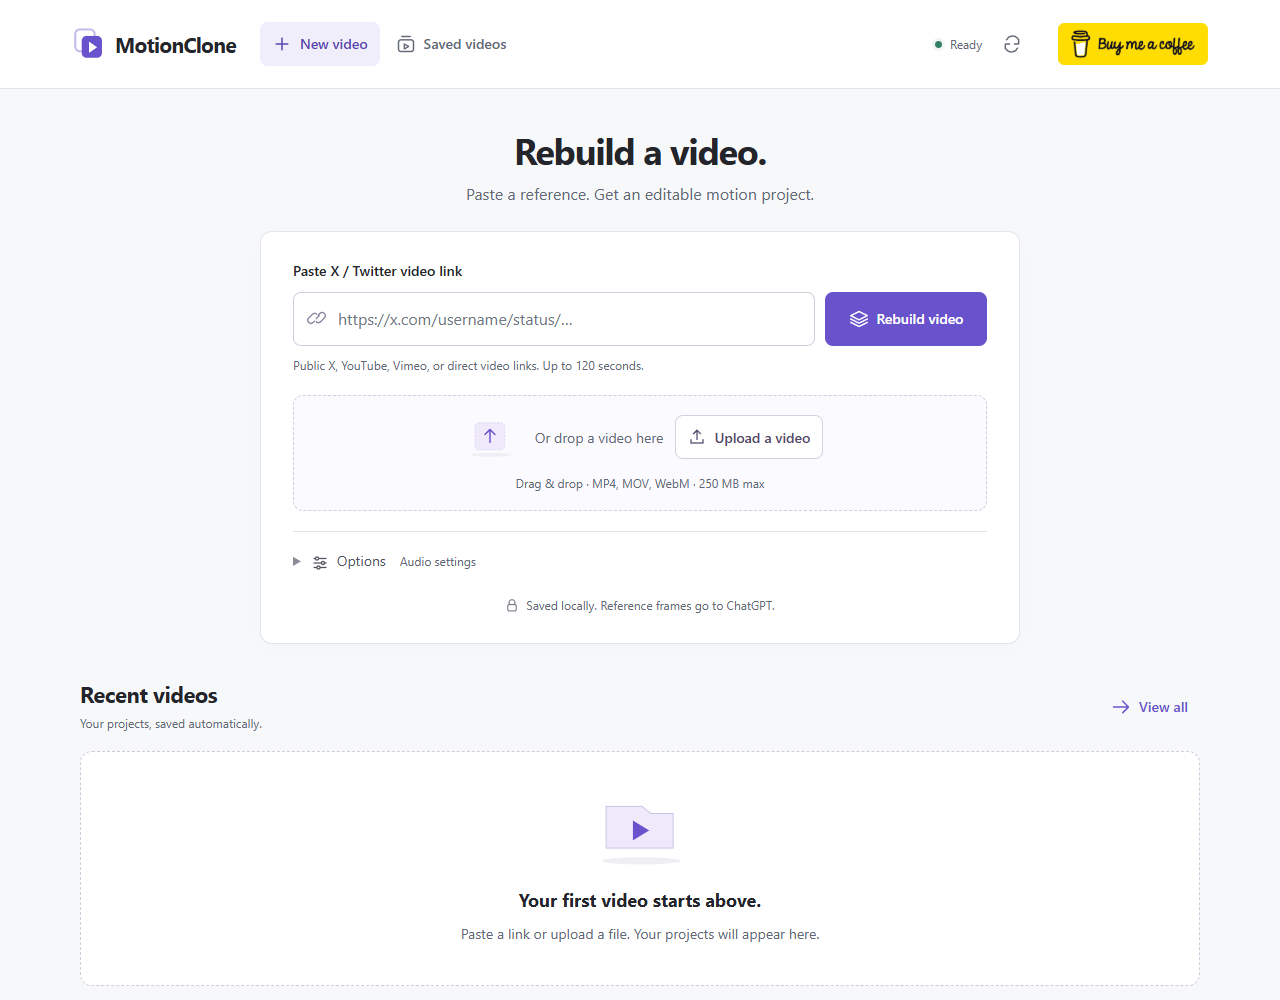
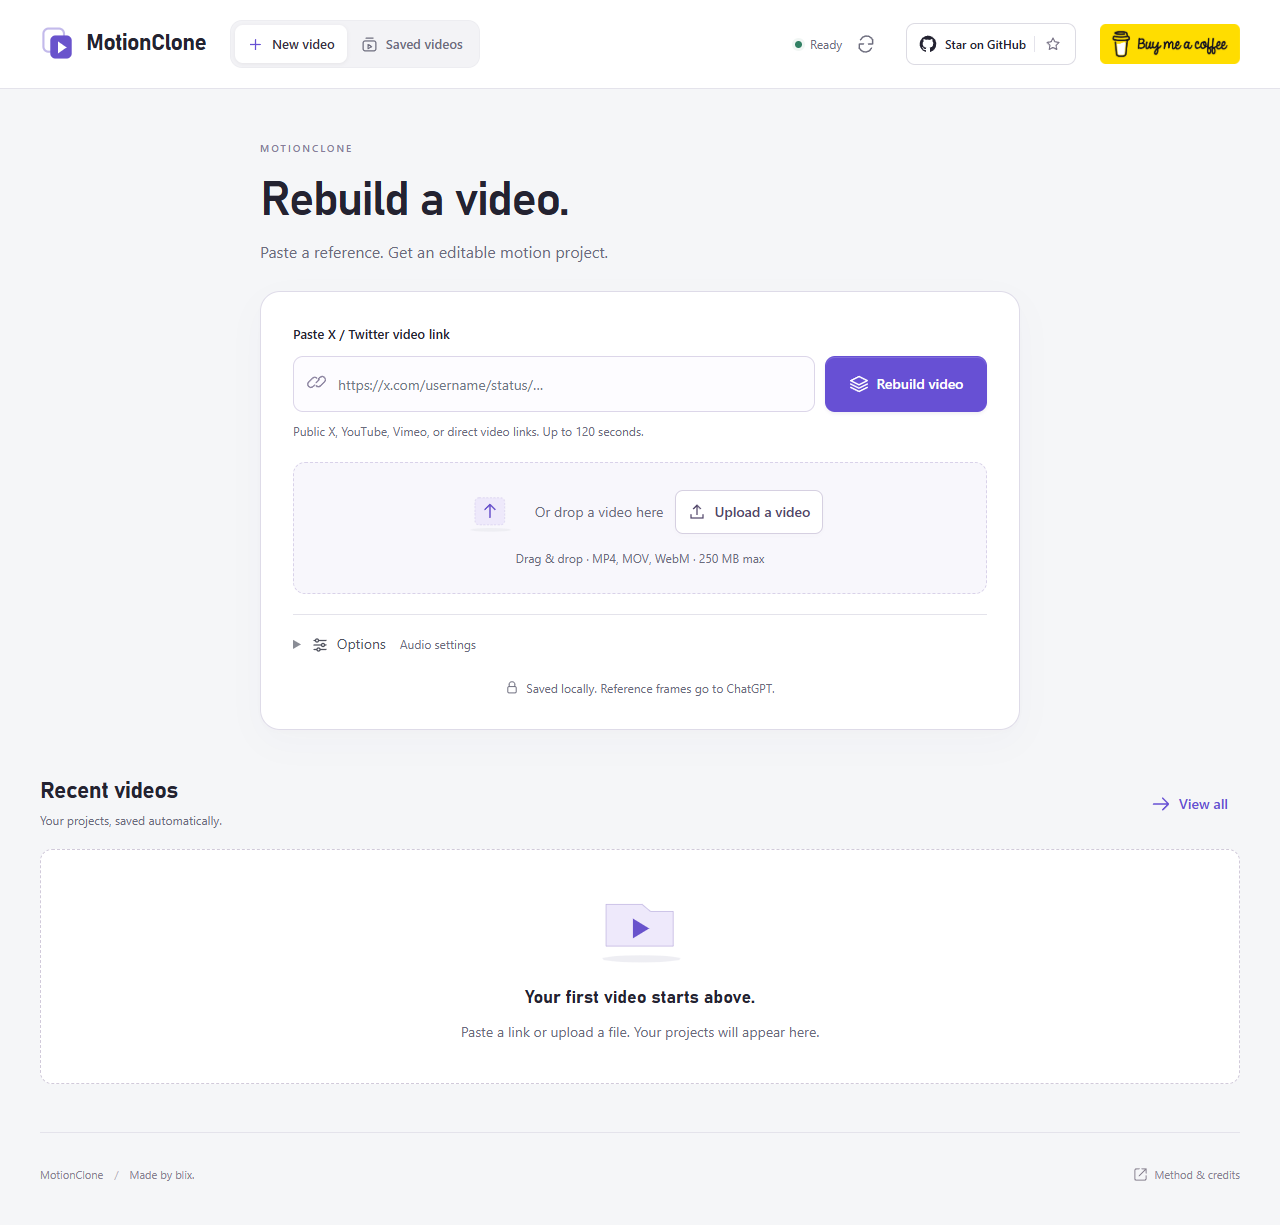
Polish motion library and add GitHub star link

diff --git a/web/studio.css b/web/studio.css
@@ -1,0 +1,115 @@
+/* MotionClone studio: the video is the focal point; controls stay quiet. */
+:root{--bg:#f5f6f8;--text:#242331;--muted:#6c6c7d;--accent:#6750d4;--border:#e4e3eb;--soft:#eeeafa;--radius:18px}
+body{font-family:'Segoe UI',sans-serif;background:var(--bg)}
+h1,h2,h3,.wordmark,.card-title{font-family:Bahnschrift,'Segoe UI',sans-serif}
+h1{font-size:48px;letter-spacing:-1.7px;font-weight:600}
+.topbar{background:#fff;border-bottom:1px solid var(--border)}
+.header-inner{max-width:1360px;padding:20px 40px;gap:24px}
+.wordmark{font-size:23px;letter-spacing:-.7px;gap:10px}
+.wordmark img{width:36px;height:36px}
+.header-nav{padding:4px;background:#f3f3f6;border:1px solid #ededf1;border-radius:12px;gap:2px}
+.header-nav .text-button{font-size:13px;min-height:38px;padding:8px 12px;border-radius:8px}
+.header-nav .text-button.active{background:#fff;color:#383244;box-shadow:0 1px 4px #24233112}
+.header-nav .text-button.active .icon{color:var(--accent)}
+.header-nav .icon{width:17px;height:17px;flex-basis:17px}
+.connection{margin-left:auto;font-size:12px;gap:8px}
+.connection .icon-button{width:32px;min-height:36px;padding:6px}
+.github-link{display:inline-flex;align-items:center;justify-content:center;gap:8px;min-height:42px;padding:8px 12px;border:1px solid #dcdbe3;border-radius:9px;background:#fff;font-size:12px;font-weight:600;white-space:nowrap;transition:border-color .2s,background .2s}
+.github-link>svg{width:18px;height:18px;flex-shrink:0}
+.github-link:hover{background:#f7f5fe;border-color:#a89acb}
+.github-star{display:flex;align-items:center;padding-left:8px;border-left:1px solid var(--border);color:#797487}
+.github-star .icon{width:16px;height:16px}
+.coffee-link img{width:140px}
+main{max-width:1280px;padding:52px 40px 28px}
+.studio-label{display:flex;align-items:center;gap:7px;margin-bottom:14px;font-size:10px;font-weight:650;letter-spacing:1.7px;color:#797285}
+.studio-label .icon{width:15px;height:15px}
+.title-period{color:var(--accent)}
+.library-heading{margin-bottom:32px;align-items:center}
+.library-heading .lede{font-size:15px;margin-top:10px}
+.library-heading>.primary{padding:12px 18px;box-shadow:0 4px 9px #6750d426,inset 0 1px #ffffff30}
+.primary{border-radius:10px;background:var(--accent);box-shadow:inset 0 1px #ffffff28,0 2px 3px #36246912}
+.primary:hover:not(:disabled){background:#5740c0;box-shadow:0 4px 12px #6750d433}
+.secondary{border-radius:10px}
+.library-controls{display:grid;grid-template-columns:1fr auto;gap:0 24px;align-items:center;padding:8px 20px 0;background:white;border:1px solid var(--border);border-radius:14px;box-shadow:0 2px 4px #24233102}
+.library-tools{grid-column:2;grid-row:1;gap:12px;margin:0}
+.search-box{width:220px}
+.search-box input{border:0;background:#f5f5f8;font-size:12px;min-height:38px;padding-top:9px;padding-bottom:9px}
+.search-box>.icon{width:16px;height:16px;top:12px}
+#library-count{white-space:nowrap;font-variant-numeric:tabular-nums;font-size:11px}
+.library-filters{grid-column:1;grid-row:1;margin:0;gap:14px;flex-wrap:nowrap;align-self:stretch}
+.filter{position:relative;border:0;border-radius:0;background:none;padding:15px 0;font-size:12px;gap:6px;white-space:nowrap;min-height:52px}
+.filter.active{background:none;color:var(--accent);border:0}
+.filter.active::after{content:'';position:absolute;bottom:-1px;left:0;right:0;height:2px;background:var(--accent);border-radius:2px}
+.filter .icon{width:15px;height:15px;flex-basis:15px}
+#library-options{grid-column:1/-1;border-top:1px solid #f0eff4;margin:0;padding:0}
+#library-options summary{min-height:38px;padding:8px 0;font-size:11px;color:#7b7488}
+#library-options summary>.icon{width:14px;height:14px}
+.filter-options{padding-top:10px}
+.shelf-heading{display:flex;align-items:center;justify-content:space-between;gap:16px;margin:30px 0 14px;color:#888291;font-size:10px;letter-spacing:1.4px;font-weight:600}
+.shelf-heading>span:last-child{display:flex;align-items:center;gap:5px;letter-spacing:0;font-weight:400;font-size:11px}
+.shelf-heading .icon{width:13px;height:13px}
+.library-grid{gap:24px}
+.motion-card{position:relative;border-radius:17px;border:1px solid #dedce6;box-shadow:0 4px 16px #29203305;transition:box-shadow .2s,border-color .2s,transform .2s}
+.motion-card:only-child>.card-progress{position:absolute;bottom:0;left:0;right:0;z-index:2}
+.motion-card:hover{border-color:#b6acd6;box-shadow:0 12px 26px #2920330b;transform:translateY(-2px)}
+.card-preview{background:#282732;isolation:isolate}
+.card-preview video{background:radial-gradient(ellipse at center,#41404c,#22212c);object-fit:contain}
+.card-preview::after{content:'';position:absolute;inset:16px;border:1px solid #ffffff12;border-radius:6px;pointer-events:none;z-index:0}
+.card-badge{z-index:1;top:16px;left:16px;padding:5px 9px;background:#ffffffed;border:1px solid #fff;border-radius:6px;font-size:10px;font-weight:600;box-shadow:0 2px 6px #0000000b}
+.card-play{z-index:1;right:16px;bottom:16px;padding:9px 12px;background:#ffffffed;border-radius:9px;backdrop-filter:blur(8px);font-size:11px}
+.card-body{padding:20px}
+.card-format{display:flex;align-items:center;gap:6px;font-size:9px;font-weight:600;letter-spacing:1.1px;color:#8b7ba7;margin-bottom:9px}
+.card-format .icon{width:13px;height:13px;flex-basis:13px}
+.card-title{font-size:19px;font-weight:600;min-height:32px;line-height:1.35;letter-spacing:-.35px}
+.card-meta{margin-top:7px;font-size:11px}
+.card-specs{display:none}
+.card-reference{display:flex;align-items:center;gap:6px;margin-top:14px;font-size:11px;color:#716683;min-height:32px}
+.card-reference .icon{width:13px;height:13px;flex-basis:13px}
+.card-reference span{min-width:0;overflow:hidden;text-overflow:ellipsis;white-space:nowrap}
+.card-reference:hover{color:var(--accent)}
+.card-reference>.icon:last-child{margin-left:auto}
+.card-bottom{margin-top:16px;padding-top:10px;border-color:#efedf3}
+.card-open{font-size:12px;font-weight:600;color:var(--accent)}
+.card-open .icon{width:17px;height:17px}
+.card-favorite{border-radius:9px;color:#91899f}
+.card-favorite:hover{background:var(--soft)}
+#library-grid>.motion-card:only-child{grid-column:1/-1;display:grid;grid-template-columns:1.15fr 1fr;min-height:390px}
+#library-grid>.motion-card:only-child:hover{transform:none}
+#library-grid>.motion-card:only-child .card-preview{aspect-ratio:auto;min-height:390px}
+#library-grid>.motion-card:only-child .card-preview video{position:absolute;inset:0}
+#library-grid>.motion-card:only-child .card-body{display:flex;flex-direction:column;justify-content:center;padding:36px 40px;background:linear-gradient(130deg,#fff 55%,#faf8ff)}
+#library-grid>.motion-card:only-child .card-format{font-size:10px;margin-bottom:16px}
+#library-grid>.motion-card:only-child .card-title{font-size:30px;line-height:1.25;letter-spacing:-.9px;white-space:normal;overflow-wrap:anywhere}
+#library-grid>.motion-card:only-child .card-meta{display:none}
+#library-grid>.motion-card:only-child .card-specs{display:grid;grid-template-columns:1fr 1.25fr 1fr;gap:12px;margin:28px 0 8px;padding:20px 0;border-top:1px solid var(--border);border-bottom:1px solid var(--border)}
+.card-specs dt{font-size:10px;color:#8a8397;margin-bottom:6px}
+.card-specs dd{margin:0;font-size:14px;font-weight:600;font-variant-numeric:tabular-nums;color:#4d455e}
+#library-grid>.motion-card:only-child .card-bottom{border:0;margin-top:22px;padding:0}
+#library-grid>.motion-card:only-child .card-open{color:#fff;background:var(--accent);border-radius:10px;padding:11px 18px;min-height:46px;flex-direction:row-reverse;gap:20px;box-shadow:0 3px 7px #6750d41a}
+#library-grid>.motion-card:only-child .card-open:hover{background:#5740c0}
+#library-grid>.motion-card:only-child .card-favorite{border:1px solid var(--border);background:#fff}
+.is-new .editor-title-block{text-align:left;justify-content:flex-start;max-width:760px;margin:0 auto 26px}
+.is-new .editor-title-block .lede{margin-left:0;font-size:16px}
+.is-new .editor-title-block .eyebrow{display:block;font-size:10px;letter-spacing:2px;margin-bottom:16px;color:#877c9a}
+.is-new .setup{border-radius:20px;padding:32px;box-shadow:0 12px 36px #33264206,0 2px 4px #33264203;border-color:#dedbe8}
+.input-label{font-size:13px;margin-bottom:12px}
+.url-wrap input{border-color:#dcd6e9;border-radius:10px;font-size:14px;height:56px;background:#fdfcff}
+.import-row>.primary{padding:12px 20px}
+.upload-row{border-radius:12px;background:#f8f7fc;border-color:#d9d2e9;padding:24px}
+.upload-button{background:#fff;box-shadow:0 2px 3px #29203304}
+.is-new #recent-section{margin-top:46px}
+.section-heading h2{font-size:23px}
+.section-heading .hint{font-size:12px}
+footer{margin-top:48px;font-size:11px;color:#888291}
+@media(min-width:761px){#recent-grid>.motion-card:only-child{grid-column:span 2;display:grid;grid-template-columns:220px 1fr}#recent-grid>.motion-card:only-child .card-preview{aspect-ratio:auto;min-height:200px}#recent-grid>.motion-card:only-child video{position:absolute;inset:0}}
+@media(max-width:1150px){.header-inner{padding:16px 28px;gap:16px}.wordmark{font-size:20px}.header-nav .text-button{padding:8px 10px}.connection{gap:4px}.coffee-link img{width:120px}.github-star{display:none}.github-link{font-size:11px;padding:8px 10px}.library-controls{gap:0 16px}.library-filters{gap:12px}.filter .icon{display:none}.search-box{width:200px}#library-grid>.motion-card:only-child .card-body{padding:28px}.card-specs dd{font-size:13px}}
+@media(max-width:960px){.header-inner{flex-wrap:wrap}.wordmark{margin-right:auto}.header-nav{order:4}.connection{order:5;margin-left:auto}.github-link{margin-left:0}.library-controls{grid-template-columns:1fr}.library-tools{grid-row:1;grid-column:1;padding:8px 0}.library-filters{grid-row:2;grid-column:1;gap:24px}.search-box{width:100%;max-width:360px}.filter .icon{display:inline-block}main{padding:36px 28px}h1{font-size:40px}#library-grid>.motion-card:only-child{grid-template-columns:1fr 1fr}.card-specs dd{font-size:12px}#library-grid>.motion-card:only-child .card-title{font-size:25px}}
+@media(max-width:760px){.header-inner{padding:14px 20px;gap:12px}.wordmark{font-size:20px}.wordmark img{width:30px;height:30px}.github-link{order:2}.coffee-link{order:3}.header-nav{margin-right:0}.connection{order:5}.coffee-link img{width:120px}.github-link>span{display:none}.github-link{padding:8px 10px}.header-nav .text-button{font-size:12px}.library-heading{align-items:flex-end}.library-heading .lede{font-size:13px;max-width:260px}.library-heading>.primary{font-size:12px;padding:10px 12px;white-space:nowrap}.library-controls{padding:8px 16px 0}.library-filters{gap:18px;flex-wrap:wrap}.filter{font-size:11px;min-height:44px;padding:10px 0}.shelf-heading{margin-top:24px}.shelf-heading>span:last-child{font-size:10px}#library-grid>.motion-card:only-child{grid-template-columns:1fr}#library-grid>.motion-card:only-child .card-preview{min-height:340px}#library-grid>.motion-card:only-child .card-body{padding:28px}#library-grid>.motion-card:only-child .card-specs{margin-top:20px}.card-specs dd{font-size:14px}.is-new .setup{padding:24px}.is-new .editor-title-block .lede{font-size:14px}}
+@media(max-width:440px){main{padding:28px 18px 20px}.header-inner{padding:12px 16px;gap:10px}.wordmark{font-size:18px;gap:7px}.coffee-link img{width:105px}.github-link{min-height:36px;padding:7px}.header-nav .text-button{font-size:11px;padding:8px 10px}.connection{font-size:10px}.connection #connection{max-width:76px}.connection .icon-button{width:28px}.header-nav .icon{width:15px;height:15px}.library-heading{gap:12px}.studio-label{font-size:9px;margin-bottom:10px}h1{font-size:34px}.library-heading>.primary .icon{display:none}.library-heading>.primary{font-size:11px;padding:10px}.library-heading .lede{font-size:12px}.library-filters{gap:13px}.filter .icon{display:none}.filter{font-size:11px}.shelf-heading{font-size:9px;letter-spacing:1px}.shelf-heading>span:last-child{font-size:9px}#library-grid>.motion-card:only-child .card-preview{min-height:320px}#library-grid>.motion-card:only-child .card-body{padding:24px}#library-grid>.motion-card:only-child .card-title{font-size:25px}.card-specs dd{font-size:12px}.is-new .setup{padding:20px}.is-new .editor-title-block .eyebrow{margin-bottom:12px}.upload-row{padding:18px 12px}.is-new #recent-section{margin-top:32px}}
+@media(max-width:350px){.header-inner{gap:8px}.wordmark{font-size:17px}.wordmark img{width:27px;height:27px}.coffee-link img{width:96px}.header-nav .text-button{padding:7px;font-size:10px}.connection .icon-button{display:none}.library-heading>.primary{padding:9px 8px}.library-filters{gap:11px}.shelf-heading>span:last-child .icon{display:none}}
+.filter{font-size:13px}
+.card-format{font-size:10px}
+.card-specs dt{font-size:11px}
+@media(max-width:760px){.library-tools{flex-wrap:nowrap}.library-tools .search-box{flex:1;min-width:0}.library-filters{flex-wrap:nowrap;overflow-x:auto;min-width:0;gap:18px;scrollbar-width:thin}.filter{flex-shrink:0;font-size:12px}.card-specs dt{font-size:10px}}
+@media(max-width:350px){.header-inner{padding-left:12px;padding-right:12px}.header-nav{padding:2px}.header-nav .text-button{padding:7px 6px;gap:4px}.header-nav .icon{width:13px;height:13px;flex-basis:13px}.connection{gap:2px}.connection .icon-button{display:inline-flex;width:26px;padding:4px}.connection #connection{max-width:52px}.filter{font-size:11px}}
+@media(prefers-reduced-motion:reduce){.motion-card:hover{transform:none}}

diff --git a/web/index.html b/web/index.html
@@ -1,11 +1,12 @@
 <!doctype html>
 <html lang="en">
-<head><meta charset="UTF-8"><meta name="viewport" content="width=device-width,initial-scale=1"><meta name="application-name" content="MotionClone"><meta name="description" content="Rebuild a reference video as editable HyperFrames layers with MotionClone."><link rel="icon" type="image/svg+xml" href="/static/assets/motionclone-icon-color.svg?v=final"><link rel="icon" href="/static/favicon.ico" sizes="16x16 32x32 48x48"><title>MotionClone — Rebuild a video</title><link rel="stylesheet" href="/static/style.css?v=ece8b5986e95"><script src="/static/ui.js?v=dda597c25fe7" defer></script><script src="/static/app.js?v=5296b159d64a" defer></script><script src="/static/library.js?v=c8d0a5c0add9" defer></script></head>
+<head><meta charset="UTF-8"><meta name="viewport" content="width=device-width,initial-scale=1"><meta name="application-name" content="MotionClone"><meta name="description" content="Rebuild a reference video as editable HyperFrames layers with MotionClone."><link rel="icon" type="image/svg+xml" href="/static/assets/motionclone-icon-color.svg?v=final"><link rel="icon" href="/static/favicon.ico" sizes="16x16 32x32 48x48"><title>MotionClone — Rebuild a video</title><link rel="stylesheet" href="/static/style.css?v=ece8b5986e95"><script src="/static/ui.js?v=dda597c25fe7" defer></script><script src="/static/app.js?v=5296b159d64a" defer></script><script src="/static/library.js?v=817331eab465" defer></script><link rel="stylesheet" href="/static/studio.css?v=998953058582"></head>
 <body class="is-new">
 <header class="topbar"><div class="header-inner">
 <a class="wordmark" href="/" aria-label="MotionClone home"><img src="/static/assets/motionclone-icon-color.svg" width="34" height="34" alt="">MotionClone</a>
 <nav class="header-nav" aria-label="Main navigation"><button id="new-project" class="text-button active" data-icon="plus" aria-current="page">New video</button><button id="open-library" class="text-button" data-icon="library">Saved videos</button></nav>
 <div class="connection" role="status"><span id="connection-dot" class="dot"></span><span id="connection">Connecting…</span><button id="refresh-auth" class="icon-button" data-icon="refresh" aria-label="Refresh connection"></button></div>
+<a class="github-link" href="https://github.com/blixvip/MotionClone" target="_blank" rel="noopener noreferrer" aria-label="Star MotionClone on GitHub"><svg viewBox="0 0 24 24" aria-hidden="true"><path fill="currentColor" d="M12 .9a11.1 11.1 0 0 0-3.51 21.63c.56.1.76-.24.76-.54v-2.08c-3.1.67-3.76-1.32-3.76-1.32-.51-1.29-1.24-1.63-1.24-1.63-1.01-.69.08-.68.08-.68 1.12.08 1.7 1.15 1.7 1.15 1 1.7 2.6 1.21 3.24.93.1-.72.39-1.21.71-1.49-2.48-.28-5.08-1.24-5.08-5.53 0-1.22.44-2.22 1.14-3-.11-.28-.49-1.42.11-2.96 0 0 .94-.3 3.05 1.14a10.6 10.6 0 0 1 5.56 0c2.12-1.44 3.05-1.14 3.05-1.14.6 1.54.22 2.68.11 2.96.71.78 1.14 1.78 1.14 3 0 4.3-2.61 5.24-5.1 5.52.4.35.76 1.02.76 2.06v3.07c0 .3.2.65.77.54A11.1 11.1 0 0 0 12 .9Z"/></svg><span>Star on GitHub</span><span class="github-star" data-icon="star"></span></a>
 <a class="coffee-link" href="https://buymeacoffee.com/blix" target="_blank" rel="noopener noreferrer"><img src="/static/assets/buymeacoffee-yellow.png" alt="Buy me a coffee" width="170" height="48"></a>
 </div></header>
 <main><span id="page-location" class="sr-only">New video</span>
@@ -14,9 +15,11 @@
 <div id="global-error" class="notice error" role="alert" hidden></div>
 <div id="auth-help" class="notice" hidden>Connect your ChatGPT subscription: run <code>codex login</code> once, then refresh the connection. No API key.</div>
 <div id="library-load-error" class="notice" role="alert" hidden><span data-icon="offline">Saved videos are unavailable. Check the connection and retry.</span><button id="library-retry" class="secondary" data-icon="refresh">Retry loading</button></div><section id="library-view" hidden>
-<div class="heading"><div><h1>Saved videos</h1><p class="lede">Open a project to preview, edit, or download.</p></div><button id="add-reference" data-icon="plus" class="primary">New video</button></div>
+<div class="heading library-heading"><div><p class="studio-label"><span data-icon="layers"></span>YOUR WORKSPACE</p><h1>Saved videos<span class="title-period">.</span></h1><p class="lede">Your references. Your rebuilds. All in one place.</p></div><button id="add-reference" data-icon="plus" class="primary">New video</button></div>
+<div class="library-controls">
 <div class="library-tools"><label class="search-box" data-icon="search"><span class="sr-only">Search saved videos</span><input id="library-search" type="search" placeholder="Search videos…" autocomplete="off"></label><span id="library-count" class="meta" aria-live="polite">Loading…</span></div>
 <div class="library-filters" aria-label="Filter projects"><button class="filter active" data-icon="library" data-filter="all" aria-pressed="true">All videos</button><button class="filter" data-icon="star" data-filter="favorites" aria-pressed="false">Favorites</button><button class="filter" data-icon="check-circle" data-filter="ready" aria-pressed="false">Ready</button><button class="filter" data-icon="loader" data-filter="working" aria-pressed="false">In progress</button><button class="filter" data-icon="archive" data-filter="archived" aria-pressed="false">Archived</button></div><details id="library-options" class="disclosure"><summary data-icon="filter">Filter &amp; sort</summary><div class="filter-options"><label data-icon="folder">Collection<select id="collection-filter"><option value="">All collections</option></select></label><label data-icon="sort">Sort<select id="library-sort"><option value="recent">Recently added</option><option value="name">Name A–Z</option></select></label></div></details>
+</div><div class="shelf-heading"><span>PROJECT LIBRARY</span><span data-icon="lock">Stored on this computer</span></div>
 <div id="library-grid" class="library-grid" aria-label="Saved motion graphics"></div>
 <div id="library-empty" class="library-empty" hidden><img id="library-empty-art" class="state-art" src="/static/assets/illustration-empty.svg" alt="" width="150" height="114"><h2 id="empty-title">Start your motion collection.</h2><p id="empty-copy">Upload a video or paste an X / Twitter link. The original video is saved here.</p><button id="empty-add" data-icon="upload" class="primary">Import your first video</button></div>
 <p class="library-footnote">Saved on this computer <span>·</span> Projects are stored locally. Reference images go to ChatGPT for analysis.</p>

diff --git a/web/library.js b/web/library.js
@@ -119,11 +119,27 @@ function card(job) {
     fill.style.width=`${Math.max(0,Math.min(100,job.progress||0))}%`;bar.append(fill);article.append(bar);
   }
   const body=node('div','card-body'),title=node('button','card-title',job.name);
+  const sourceType=node('div','card-format',job.brief.mode==='hyperframes'?'EDITABLE REBUILD':job.brief.mode==='faithful'?'ORIGINAL EXPORT':'VIDEO PROJECT');
+  sourceType.prepend(icon('layers'));body.append(sourceType);
   title.addEventListener('click',()=>openProject(job.id));body.append(title);
   const meta=node('div','card-meta');
   meta.append(node('span','',job.media?duration(job.media.duration):new Date(job.created*1000).toLocaleDateString()),
     node('span','','·'),node('span','collection-label',job.collection||'Unsorted'));
   body.append(meta);
+  if(job.media){
+    const specs=node('dl','card-specs');
+    for(const [label,value] of [['Duration',duration(job.media.duration)],['Resolution',`${job.media.width} × ${job.media.height}`],['Frame rate',`${Math.round(job.media.fps*100)/100} fps`]]){
+      const spec=node('div','');spec.append(node('dt','',label),node('dd','',value));specs.append(spec);
+    }
+    body.append(specs);
+  }
+  if(job.url){
+    try{const source=new URL(job.url);if(['https:','http:'].includes(source.protocol)){
+      const reference=node('a','card-reference');reference.href=source.href;reference.target='_blank';reference.rel='noopener noreferrer';
+      const x=['x.com','www.x.com','twitter.com','www.twitter.com'].includes(source.hostname);
+      reference.append(icon('link'),node('span','',x&&source.pathname.split('/')[1]?`@${source.pathname.split('/')[1]} · View reference`:'View original reference'),icon('external'));body.append(reference);
+    }}catch{}
+  }
   const bottom=node('div','card-bottom'),open=node('button','card-open');setControl(open,'Open project','arrow-right');
   open.addEventListener('click',()=>openProject(job.id));
   const favorite=node('button','card-favorite');favorite.append(icon('star'));
